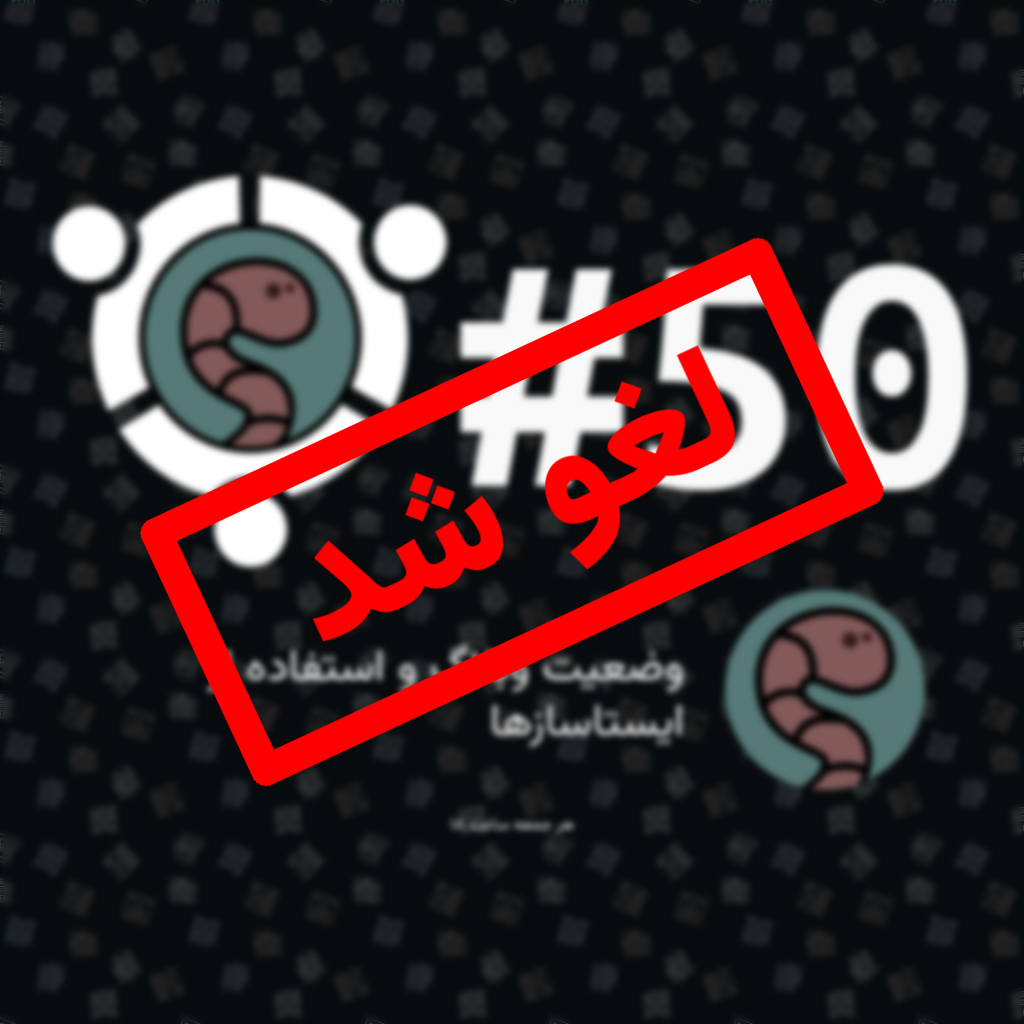
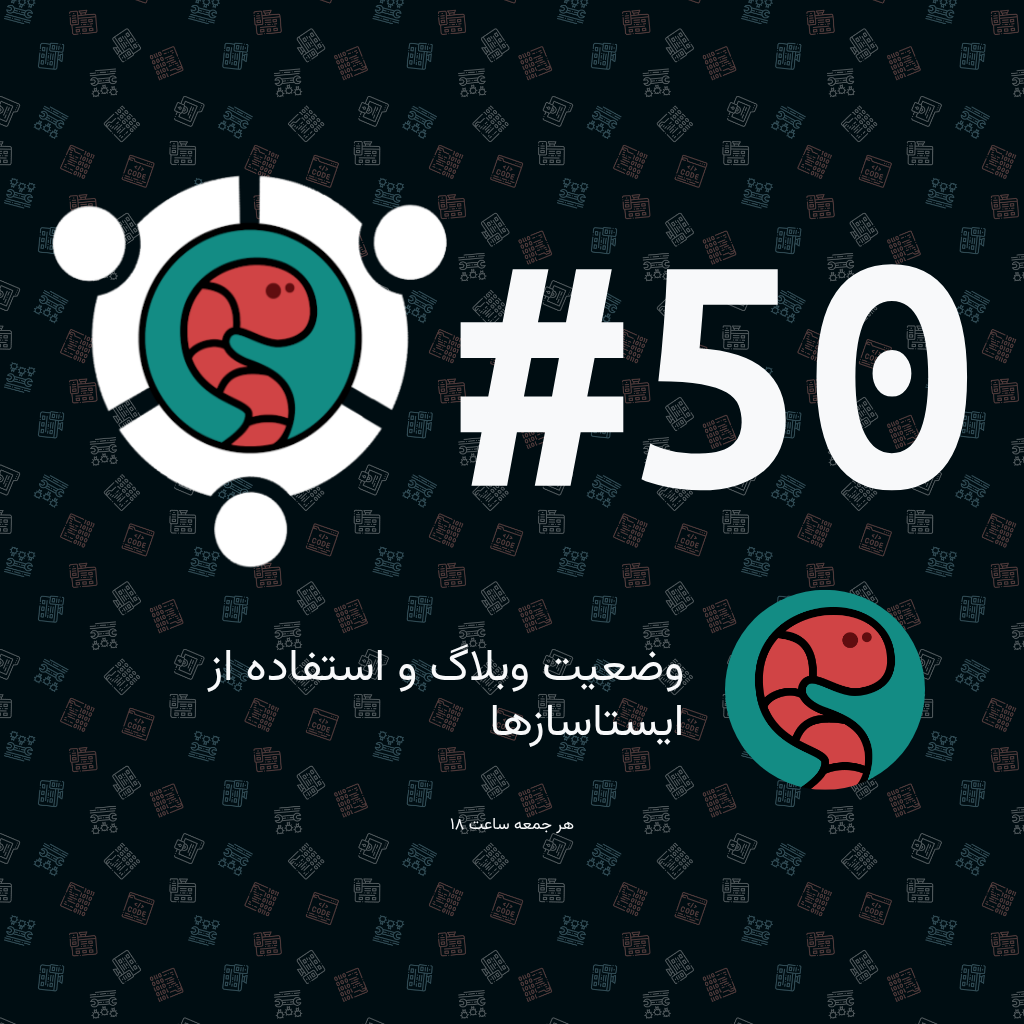
deploy: bc64db069f278a67df7156c87ad5deed3725bc49

diff --git a/50/index.html b/50/index.html
@@ -4,8 +4,8 @@
 <head>
     <meta charset="UTF-8">
     <meta name="viewport" content="width=device-width, initial-scale=1.0">
-        <meta property="og:title" content="دورهمی #50 کرمهای کامپیوتر - وضعیت وبلاگ و استفاده از ایستاسازها 🚫 لغو شد" />
-        <meta name="og:description" content="دورهمی #50 کرمهای کامپیوتر  دربارهٔ وضعیت وبلاگ و استفاده از ایستاسازها 🚫 لغو شد"/>
+        <meta property="og:title" content="دورهمی #50 کرمهای کامپیوتر - وضعیت وبلاگ و استفاده از ایستاسازها" />
+            <meta name="og:description" content="دورهمی #50 کرمهای کامپیوتر جمعه ساعت ۱۸  دربارهٔ وضعیت وبلاگ و استفاده از ایستاسازها گفت و کوی اعضای کرمهای کامپیوتر"/>
     <meta property="og:url" content="https://meet.pcworms.ir" />
     <meta property="og:image" content="./preview.png" />
     <title>دورهمیهای کرمهای کامپیوتر</title>
@@ -17,6 +17,64 @@
     <link
         href="https://fonts.googleapis.com/css2?family=Ubuntu+Mono:wght@700&family=Vazirmatn:wght@400;700&display=swap"
         rel="stylesheet">
+    <script>
+        var countDownDate = new Date("Apr 04 2025 18:00:00").getTime();
+        var finishDate = countDownDate + (1.5 * 3600 * 1000);
+
+        // Update the count down every 1 second
+        var x = setInterval(function () {
+            // Get today's date and time
+            var now = new Date().getTime();
+
+            // Find the distance between now and the count down date
+            var distance = countDownDate - now;
+
+            if (now > finishDate) {
+                document.getElementById("counter").innerHTML = "❌ خاتمه یافت";
+                document.getElementById("link").innerHTML = "لینک جلسه هم در گروه های ما در تلگرام و ماتریکس اعلام شده بود!";
+            } else if (distance < 0) {
+                clearInterval(x);
+                document.getElementById("counter").innerHTML = "در حال برگزاری ...";
+                document.getElementById("link").innerHTML = "لینک جلسه در گروه های ما در تلگرام و ماتریکس اعلام شده";
+            } else {
+                // Time calculations for days, hours, minutes and seconds
+                distance = Math.floor(distance / 1000)
+                var days = Math.floor(distance / (3600 * 24));
+                distance %= 3600 * 24;
+                var res = days > 0 ? days + " روز" : "";
+                if (distance > 0) res += " و ";
+
+                var hours = Math.floor(distance / 3600);
+                distance %= 3600;
+                if (hours > 0) res += hours + " ساعت";
+                if (distance > 0) res += " و ";
+                var minutes = Math.floor(distance / 60);
+                distance %= 60;
+                if (minutes > 0) res += minutes + " دقیقه"
+                if (distance > 0) res += " و "
+                var seconds = distance;
+
+                // Display the result in the element with id="demo"
+                var res = days + " روز";
+                res += days > 0 && hours > 0 ? " و " : ""
+                res += hours > 0 ? hours + " ساعت" : "";
+                res += hours > 0 && minutes > 0 ? " و " : ""
+                res += minutes > 0 ? minutes + " دقیقه" : "";
+                res += minutes > 0 && seconds > 0 ? " و " : ""
+                res += seconds > 0 ? seconds + " ثانیه" : "";
+                res += " دیگر"
+                const regex = /\d/g
+                let nums = '۰۱۲۳۴۵۶۷۸۹';
+                res = res.replace(regex, function (d) {
+                    return nums[d]
+                }
+                )
+                document.getElementById("counter").innerHTML = res;
+            }
+
+
+        }, 1000);
+    </script>
 </head>
 
 <body class="text-light">
@@ -43,7 +101,7 @@
                         </small>
                         <h2 class="subject">وضعیت وبلاگ و استفاده از ایستاسازها</h2>
                         <div class="text-center">
-                            <p>🚫 لغو شد</p>
+                            <small class="time" id="counter"></small>
                         </div>
                     </div>
                 </div>

diff --git a/index.html b/index.html
@@ -4,8 +4,8 @@
 <head>
     <meta charset="UTF-8">
     <meta name="viewport" content="width=device-width, initial-scale=1.0">
-        <meta property="og:title" content="دورهمی #50 کرمهای کامپیوتر - وضعیت وبلاگ و استفاده از ایستاسازها 🚫 لغو شد" />
-        <meta name="og:description" content="دورهمی #50 کرمهای کامپیوتر  دربارهٔ وضعیت وبلاگ و استفاده از ایستاسازها 🚫 لغو شد"/>
+        <meta property="og:title" content="دورهمی #50 کرمهای کامپیوتر - وضعیت وبلاگ و استفاده از ایستاسازها" />
+            <meta name="og:description" content="دورهمی #50 کرمهای کامپیوتر جمعه ساعت ۱۸  دربارهٔ وضعیت وبلاگ و استفاده از ایستاسازها گفت و کوی اعضای کرمهای کامپیوتر"/>
     <meta property="og:url" content="https://meet.pcworms.ir" />
     <meta property="og:image" content="./preview.png" />
     <title>دورهمیهای کرمهای کامپیوتر</title>
@@ -17,6 +17,64 @@
     <link
         href="https://fonts.googleapis.com/css2?family=Ubuntu+Mono:wght@700&family=Vazirmatn:wght@400;700&display=swap"
         rel="stylesheet">
+    <script>
+        var countDownDate = new Date("Apr 04 2025 18:00:00").getTime();
+        var finishDate = countDownDate + (1.5 * 3600 * 1000);
+
+        // Update the count down every 1 second
+        var x = setInterval(function () {
+            // Get today's date and time
+            var now = new Date().getTime();
+
+            // Find the distance between now and the count down date
+            var distance = countDownDate - now;
+
+            if (now > finishDate) {
+                document.getElementById("counter").innerHTML = "❌ خاتمه یافت";
+                document.getElementById("link").innerHTML = "لینک جلسه هم در گروه های ما در تلگرام و ماتریکس اعلام شده بود!";
+            } else if (distance < 0) {
+                clearInterval(x);
+                document.getElementById("counter").innerHTML = "در حال برگزاری ...";
+                document.getElementById("link").innerHTML = "لینک جلسه در گروه های ما در تلگرام و ماتریکس اعلام شده";
+            } else {
+                // Time calculations for days, hours, minutes and seconds
+                distance = Math.floor(distance / 1000)
+                var days = Math.floor(distance / (3600 * 24));
+                distance %= 3600 * 24;
+                var res = days > 0 ? days + " روز" : "";
+                if (distance > 0) res += " و ";
+
+                var hours = Math.floor(distance / 3600);
+                distance %= 3600;
+                if (hours > 0) res += hours + " ساعت";
+                if (distance > 0) res += " و ";
+                var minutes = Math.floor(distance / 60);
+                distance %= 60;
+                if (minutes > 0) res += minutes + " دقیقه"
+                if (distance > 0) res += " و "
+                var seconds = distance;
+
+                // Display the result in the element with id="demo"
+                var res = days + " روز";
+                res += days > 0 && hours > 0 ? " و " : ""
+                res += hours > 0 ? hours + " ساعت" : "";
+                res += hours > 0 && minutes > 0 ? " و " : ""
+                res += minutes > 0 ? minutes + " دقیقه" : "";
+                res += minutes > 0 && seconds > 0 ? " و " : ""
+                res += seconds > 0 ? seconds + " ثانیه" : "";
+                res += " دیگر"
+                const regex = /\d/g
+                let nums = '۰۱۲۳۴۵۶۷۸۹';
+                res = res.replace(regex, function (d) {
+                    return nums[d]
+                }
+                )
+                document.getElementById("counter").innerHTML = res;
+            }
+
+
+        }, 1000);
+    </script>
 </head>
 
 <body class="text-light">
@@ -43,7 +101,7 @@
                         </small>
                         <h2 class="subject">وضعیت وبلاگ و استفاده از ایستاسازها</h2>
                         <div class="text-center">
-                            <p>🚫 لغو شد</p>
+                            <small class="time" id="counter"></small>
                         </div>
                     </div>
                 </div>

diff --git a/50/preview.html b/50/preview.html
@@ -17,7 +17,6 @@
 </head>
 
 <body class="text-light">
-        <img class="cancelled" src="./assets/cancelled.png">
     <div class="container-fluid">
         <div class="row mt-2 text-center">
             <div class="col d-flex  align-items-center justify-content-center">

diff --git a/preview.html b/preview.html
@@ -17,7 +17,6 @@
 </head>
 
 <body class="text-light">
-        <img class="cancelled" src="./assets/cancelled.png">
     <div class="container-fluid">
         <div class="row mt-2 text-center">
             <div class="col d-flex  align-items-center justify-content-center">
